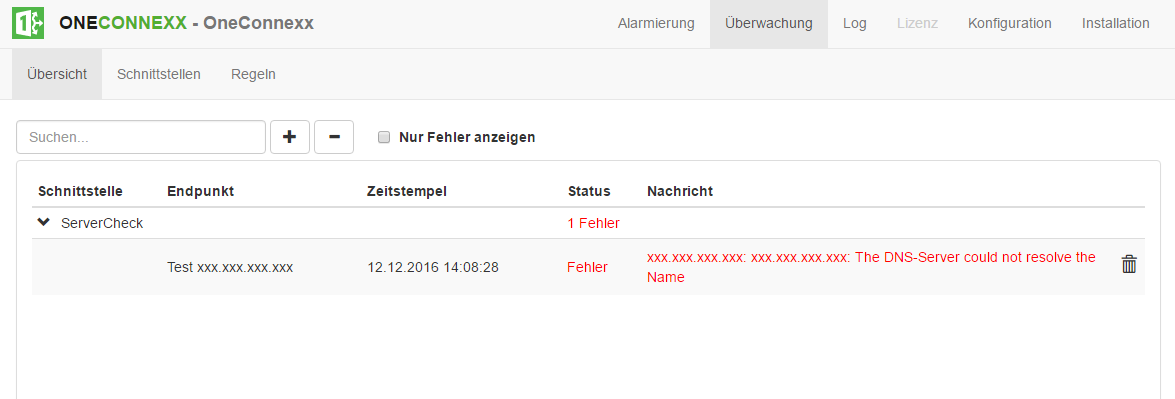
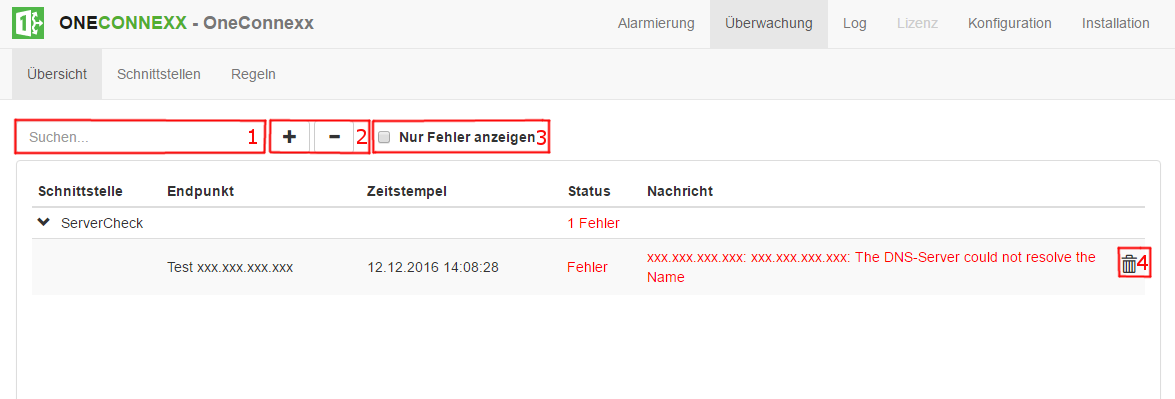
Arbeit an Überwachungsseite

Changed region(s): [[0.0, 0.2707, 0.4902, 0.391], [0.9498, 0.6015, 0.9804, 0.7218]]

diff --git a/_pages/webclient/de/ueberwachung.md b/_pages/webclient/de/ueberwachung.md
@@ -46,7 +46,7 @@ Schnittstellen welche Fehlerhafte Transaktionen enthalten werden von Anfang an A
 
 ### 1. Textfilter
   Die Textsuche schränkt die Liste auf Einträge ein, welche einen bestimmten Ausdruck enthalten.
-  Im Unterschied zu vielen Textsuchfeldern im OneConnexx besteht hier keine Möglichkeit Regulären Ausdrücke zu verwenden 
+  Im Unterschied zu vielen Textsuchfeldern im OneConnexx besteht hier keine Möglichkeit reguläre Ausdrücke zu verwenden 
 
 ### 2. Alle ausklappen/einklappen
   Mit dem Plus können alle Schnittstellen ausgeklappt werden.
